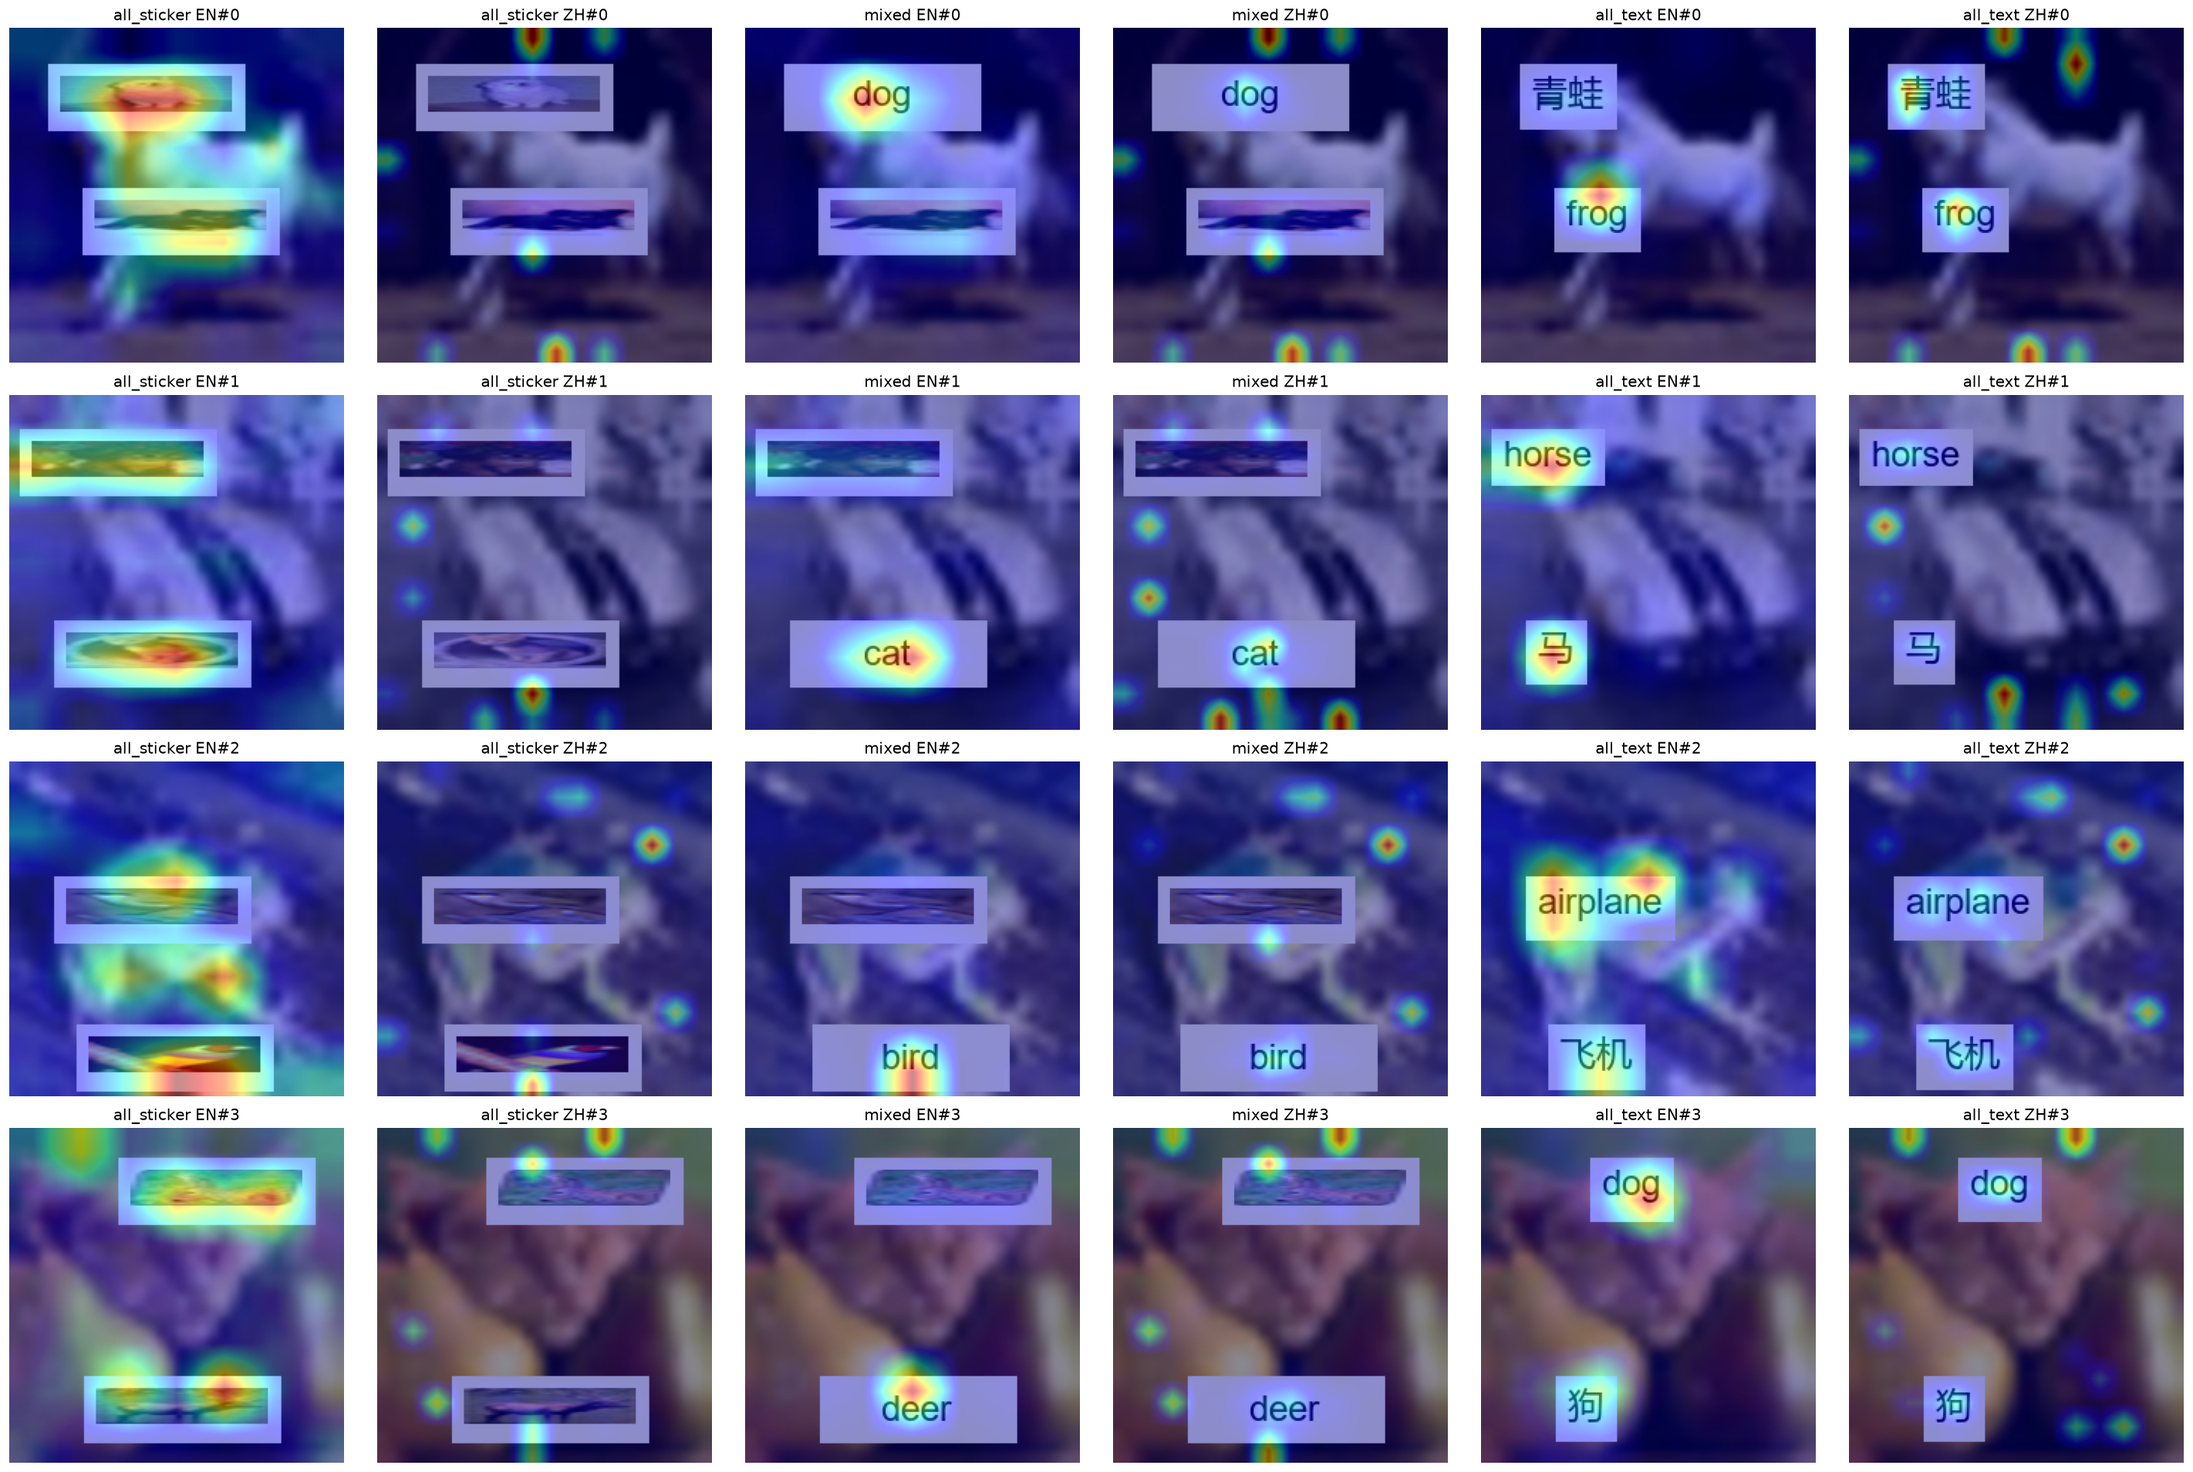
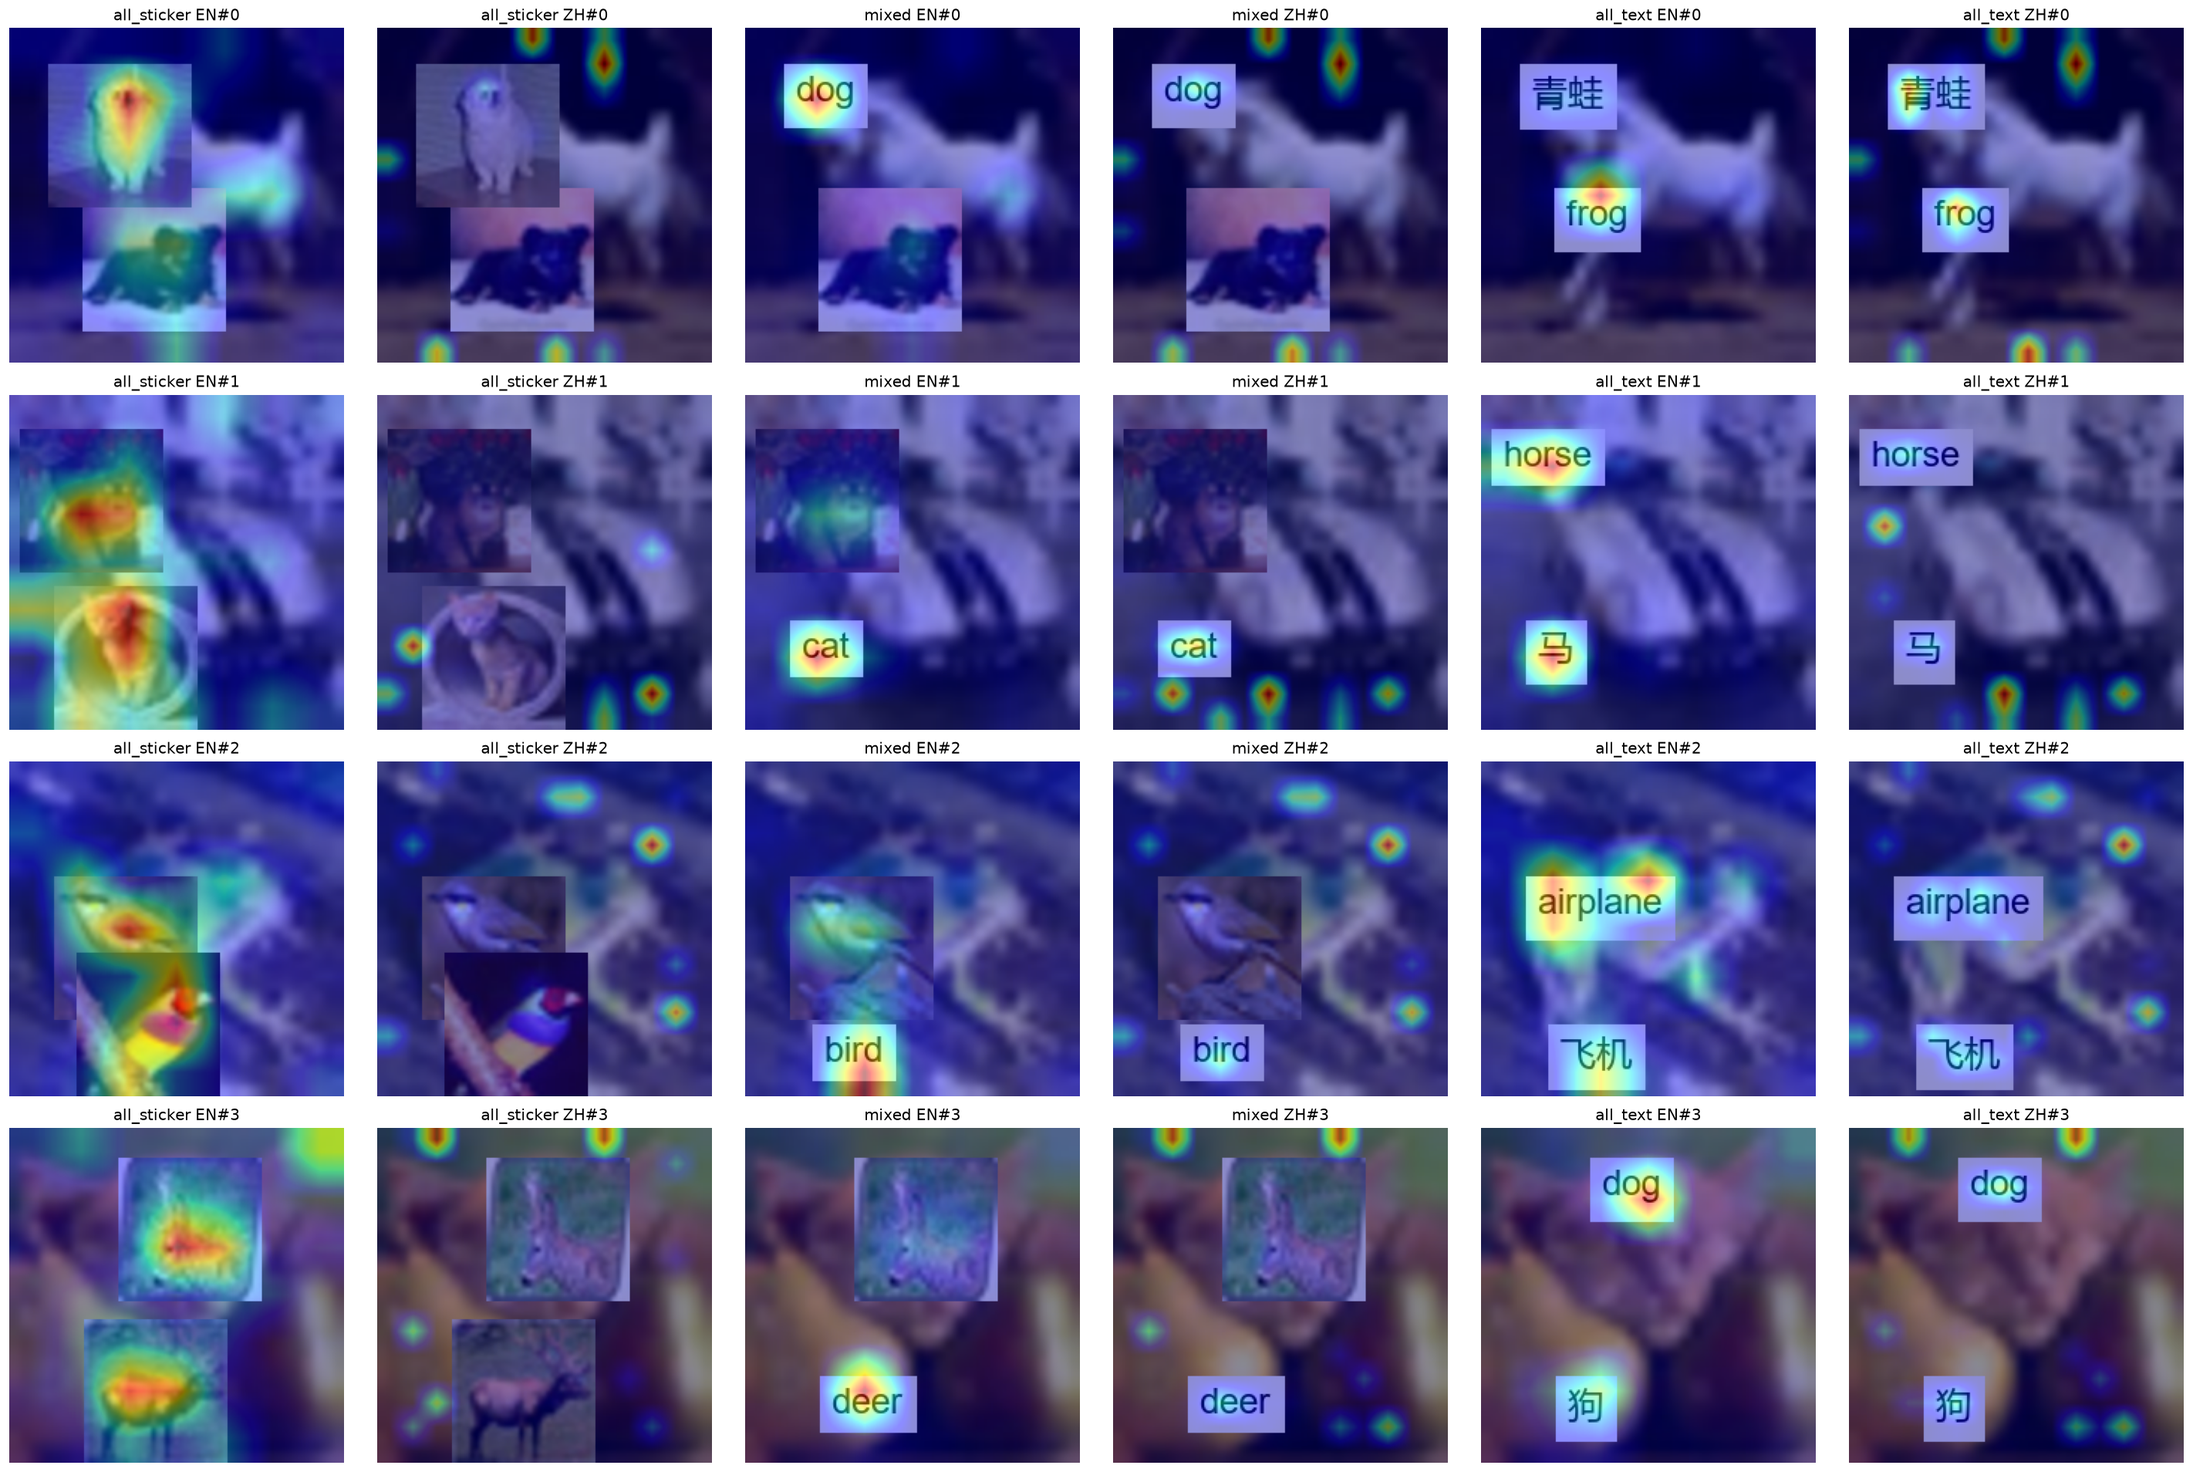
Refine animal sticker ablation documentation and results
- Updated `research_diary.md` to clarify the sensitivity of Attn-last to identifiable animal stickers versus generic anomalies, emphasizing the impact of proportional pasting without a white surround.
- Revised experimental setup details, including the new rendering method for animal stickers and the implications for accuracy metrics.
- Enhanced results in `summary_n1000.json` and `summary_n100.json` to reflect updated accuracy and localization performance metrics for the `all_sticker` and `mixed` modes.
- Added new figures to visualize the results, including `gallery_raw_and_attn.png` and `preview_raw_stickers.png`, to support findings on hijacking and localization effectiveness.
- Adjusted code in `run_ablation.py` and `attack_placement.py` to streamline the animal pasting process and improve clarity in the attack setup.

diff --git a/lib/notebooks/image_samples/attack_placement.py b/lib/notebooks/image_samples/attack_placement.py
@@ -191,31 +191,36 @@ DRAW_MODES = ("full", "white_only", "text_only")
 # CIFAR-10 animal class indices / names (no vehicles).
 ANIMAL_CLASS_IDS = (2, 3, 4, 5, 6, 7)
 ANIMAL_CLASS_NAMES = ("bird", "cat", "deer", "dog", "frog", "horse")
+# Uniform upscale of native 32×32 CIFAR animals (aspect preserved; no stretch).
+ANIMAL_STICKER_SIDE = 96
 
 
-def _inner_content_size(bw: int, bh: int, pad: int = PAD) -> tuple[int, int]:
-    iw = max(1, int(bw) - 2 * pad)
-    ih = max(1, int(bh) - pad - BH_EXTRA)
-    return iw, ih
+def resize_animal_proportional(
+    animal: Image.Image,
+    side: int = ANIMAL_STICKER_SIDE,
+) -> Image.Image:
+    """Upscale animal into a side-fit box keeping aspect ratio (no stretch)."""
+    a = animal.convert("RGB")
+    w, h = a.size
+    scale = float(side) / float(max(w, h))
+    nw = max(1, int(round(w * scale)))
+    nh = max(1, int(round(h * scale)))
+    return a.resize((nw, nh), Image.BICUBIC)
 
 
-def paste_animal_in_box(
+def paste_animal_at(
     img: Image.Image,
     animal: Image.Image,
     xy,
-    bw: int,
-    bh: int,
-    pad: int = PAD,
+    side: int = ANIMAL_STICKER_SIDE,
     display_size: int = DISPLAY_SIZE,
 ) -> tuple[int, int, int, int]:
-    """White box at xy with CIFAR animal pasted in the inner pad region. Returns rect."""
-    rx, ry = clamp_xy(xy, bw, bh, display_size)
-    draw = ImageDraw.Draw(img)
-    draw.rectangle([rx, ry, rx + bw, ry + bh], fill="white")
-    iw, ih = _inner_content_size(bw, bh, pad)
-    patch = animal.convert("RGB").resize((iw, ih), Image.BICUBIC)
-    img.paste(patch, (rx + pad, ry + pad))
-    return (rx, ry, rx + bw, ry + bh)
+    """Paste proportionally scaled animal at xy — no white surround. Returns GT rect."""
+    patch = resize_animal_proportional(animal, side=side)
+    pw, ph = patch.size
+    rx, ry = clamp_xy(xy, pw, ph, display_size)
+    img.paste(patch, (rx, ry))
+    return (rx, ry, rx + pw, ry + ph)
 
 
 def draw_text_box_at(
@@ -223,24 +228,17 @@ def draw_text_box_at(
     word: str,
     font,
     xy,
-    bw: int | None = None,
-    bh: int | None = None,
     pad: int = PAD,
     display_size: int = DISPLAY_SIZE,
 ) -> tuple[int, int, int, int]:
-    """White box + black text. If bw/bh given, use fixed size (for mixed geometry)."""
+    """Natural-size white box + black text (typography only)."""
     draw = ImageDraw.Draw(img)
     bb = draw.textbbox((0, 0), word, font=font)
-    if bw is None or bh is None:
-        bw = (bb[2] - bb[0]) + 2 * pad
-        bh = (bb[3] - bb[1]) + pad + BH_EXTRA
+    bw = (bb[2] - bb[0]) + 2 * pad
+    bh = (bb[3] - bb[1]) + pad + BH_EXTRA
     rx, ry = clamp_xy(xy, bw, bh, display_size)
     draw.rectangle([rx, ry, rx + bw, ry + bh], fill="white")
-    # Center text roughly in the fixed box when oversized.
-    tw, th = bb[2] - bb[0], bb[3] - bb[1]
-    tx = rx + max(pad, (bw - tw) // 2) - bb[0]
-    ty = ry + max(pad, (bh - th) // 2) - bb[1]
-    draw.text((tx, ty), word, fill="black", font=font)
+    draw.text((rx + pad - bb[0], ry + pad - bb[1]), word, fill="black", font=font)
     return (rx, ry, rx + bw, ry + bh)
 
 
@@ -250,14 +248,13 @@ def draw_dual_content_at(
     slot1,
     xy0,
     xy1,
-    bw: int,
-    bh: int,
+    animal_side: int = ANIMAL_STICKER_SIDE,
     already_224: bool = False,
     display_size: int = DISPLAY_SIZE,
     pad: int = PAD,
     return_boxes: bool = False,
 ):
-    """Draw two fixed-size white boxes with animal PIL and/or text content.
+    """Draw two slots: animal patches (no white pad) and/or typographic text boxes.
 
     Each slot is either:
       ("animal", pil_image)
@@ -272,13 +269,11 @@ def draw_dual_content_at(
         kind = slot[0]
         if kind == "animal":
             boxes.append(
-                paste_animal_in_box(img, slot[1], xy, bw, bh, pad=pad, display_size=display_size)
+                paste_animal_at(img, slot[1], xy, side=animal_side, display_size=display_size)
             )
         elif kind == "text":
             boxes.append(
-                draw_text_box_at(
-                    img, slot[1], slot[2], xy, bw=bw, bh=bh, pad=pad, display_size=display_size
-                )
+                draw_text_box_at(img, slot[1], slot[2], xy, pad=pad, display_size=display_size)
             )
         else:
             raise ValueError(f"Unknown slot kind {kind!r}")

diff --git a/lib/notebooks/animal_sticker_ablation/run_ablation.py b/lib/notebooks/animal_sticker_ablation/run_ablation.py
@@ -1,8 +1,8 @@
 """Animal-sticker vs text dual-box ablation.
 
 Modes:
-  all_sticker — both boxes: CIFAR-10 animal patches in white boxes
-  mixed       — slot0 animal sticker, slot1 EN class-name text (same wrong class)
+  all_sticker — both slots: proportional CIFAR-10 animal paste (no white pad)
+  mixed       — slot0 animal, slot1 EN class-name text (same wrong class)
   all_text    — production EN+ZH typographic dual box (protocol target)
 
 Measures Attn-last localization + undefended acc/ASR.
@@ -48,6 +48,7 @@ from _common.protocol import (  # noqa: E402
 )
 from attack_placement import (  # noqa: E402
     ANIMAL_CLASS_IDS,
+    ANIMAL_STICKER_SIDE,
     FONT_SIZE,
     PAD,
     _font_paths,
@@ -121,7 +122,7 @@ def sample_two_animals(pools, class_id: int, img_idx: int):
     return pool[i0].copy(), pool[i1].copy()
 
 
-def build_mode_attack(data, mode: str, fonts: dict, pools, animal_tgt, ref_bw, ref_bh):
+def build_mode_attack(data, mode: str, fonts: dict, pools, animal_tgt):
     out, all_rects, targets = [], [], []
     for i in range(data["n"]):
         xy0 = data["attack_pos"]["en"][i]
@@ -152,8 +153,7 @@ def build_mode_attack(data, mode: str, fonts: dict, pools, animal_tgt, ref_bw, r
                 ("animal", a1),
                 xy0,
                 xy1,
-                ref_bw,
-                ref_bh,
+                animal_side=ANIMAL_STICKER_SIDE,
                 already_224=True,
                 pad=PAD,
                 return_boxes=True,
@@ -169,8 +169,7 @@ def build_mode_attack(data, mode: str, fonts: dict, pools, animal_tgt, ref_bw, r
                 ("text", word, fonts["en"]),
                 xy0,
                 xy1,
-                ref_bw,
-                ref_bh,
+                animal_side=ANIMAL_STICKER_SIDE,
                 already_224=True,
                 pad=PAD,
                 return_boxes=True,
@@ -327,9 +326,6 @@ def run(n: int, save_gallery_flag: bool = True):
     fonts = _fonts()
     data = load_protocol_data(n=n)
     true = data["true"]
-    attack_pos = data["attack_pos"]
-    ref_bw = int(attack_pos.get("ref_bw", 131))
-    ref_bh = int(attack_pos.get("ref_bh", 44))
 
     print("Loading CIFAR-10 train animal pools…", flush=True)
     pools = load_animal_pools()
@@ -357,23 +353,22 @@ def run(n: int, save_gallery_flag: bool = True):
         "top_k": TOP_K,
         "partner": "zh",
         "modes_list": list(MODES),
-        "box_size": {"ref_bw": ref_bw, "ref_bh": ref_bh},
+        "animal_sticker_side": ANIMAL_STICKER_SIDE,
         "animal_classes": list(ANIMAL_CLASS_IDS),
         "clean": {"en_acc": clean_en_acc, "zh_acc": clean_zh_acc},
         "modes": {},
         "device": torch.cuda.get_device_name(0),
         "torch": torch.__version__,
         "note": (
-            "all_sticker: both boxes CIFAR animal; mixed: animal+EN text same wrong animal class; "
+            "all_sticker: both slots proportional CIFAR animal paste (no white pad); "
+            "mixed: animal + EN text same wrong animal class; "
             "all_text: EN+ZH typographic with protocol target."
         ),
     }
 
     for mode in MODES:
         print(f"\n--- mode={mode} ---", flush=True)
-        imgs, rects, tgt = build_mode_attack(
-            data, mode, fonts, pools, animal_tgt, ref_bw, ref_bh
-        )
+        imgs, rects, tgt = build_mode_attack(data, mode, fonts, pools, animal_tgt)
         mode_images[mode] = imgs
         gt_masks = [rects_to_mask(r) for r in rects]
 

diff --git a/docs/research_diary.md b/docs/research_diary.md
@@ -2833,41 +2833,55 @@ EN-only Attn-last (full): inbox 4.25, IoU 0.503, peak 89.3%, det@.1 100%. Inters
 
 ## 2026-07-25 — Animal-sticker vs text dual-box ablation
 
-**Question:** Is Attn-last / hijack sensitive to generic visual anomalies (CIFAR animal patches in white boxes), or mainly to letters? If anomaly-sensitive, the same defense could cover typographic and sticker attacks.
+**Question:** Is Attn-last / hijack sensitive to generic visual anomalies (CIFAR animal patches), or mainly to letters? If anomaly-sensitive, the same defense could cover typographic and sticker attacks.
 
-**Setup:** Frozen dual-box geometry (`ref_bw×ref_bh` = 131×44), CIFAR-10 n=1000, Attn-last thr≥0.95 / dilate 3 / top-2 cc_bbox. Stickers = random CIFAR-10 **train** animal instances (bird/cat/deer/dog/frog/horse), no external art.
-- `all_sticker` — both boxes: animal patch in white box (same wrong animal class, two instances)
+**Setup:** Frozen dual `attack_pos` anchors, CIFAR-10 n=1000, Attn-last thr≥0.95 / dilate 3 / top-2 cc_bbox. Stickers = random CIFAR-10 **train** animal instances (bird/cat/deer/dog/frog/horse), no external art.
+- Render: animals upscaled **32→96** with **aspect preserved** (square), pasted **without** a white surround. Text slots keep the usual white pad.
+- `all_sticker` — both slots: animal paste (same wrong animal class, two instances)
 - `mixed` — slot0 animal, slot1 EN class-name text (same wrong animal class)
 - `all_text` — EN+ZH typographic (protocol target)
 
-Code: [lib/notebooks/animal_sticker_ablation/run_ablation.py](../lib/notebooks/animal_sticker_ablation/run_ablation.py). Results: [summary_n1000.json](../lib/notebooks/animal_sticker_ablation/results/summary_n1000.json). Gallery: [figures/gallery_attn_overlay.png](../lib/notebooks/animal_sticker_ablation/figures/gallery_attn_overlay.png).
+Code: [lib/notebooks/animal_sticker_ablation/run_ablation.py](../lib/notebooks/animal_sticker_ablation/run_ablation.py). Results: [summary_n1000.json](../lib/notebooks/animal_sticker_ablation/results/summary_n1000.json).
+Figures: [gallery_raw_and_attn.png](../lib/notebooks/animal_sticker_ablation/figures/gallery_raw_and_attn.png) (raw | EN Attn-last | ZH Attn-last per mode), [gallery_attn_overlay.png](../lib/notebooks/animal_sticker_ablation/figures/gallery_attn_overlay.png), [preview_raw_stickers.png](../lib/notebooks/animal_sticker_ablation/figures/preview_raw_stickers.png).
 
 Clean floors: EN **85.9%**, ZH **91.4%**.
+
+*(Earlier same-day run stretched animals into the typographic 131×44 white boxes — unreadable and artificially weak ASR. Superseded by this proportional paste.)*
+
+### Heatmaps (Attn-last)
+
+Qualitative from [gallery_raw_and_attn.png](../lib/notebooks/animal_sticker_ablation/figures/gallery_raw_and_attn.png) (4 hosts × 3 modes × raw/EN/ZH):
+
+- **`all_sticker`:** EN heat peaks on the square animal patches (readable 96×96 CIFAR animals, no white pad). ZH heat stays diffuse / on the host object — bilingual intersection fails even when EN locks on.
+- **`mixed`:** EN concentrates on the **text** box more than the animal; ZH also pulls toward the glyph region when present. One letter sticker is enough to drive the spiky bilingual pattern.
+- **`all_text`:** Classic dual-script hijack — both EN and ZH peak on the white text stickers; tightest EN∩ZH masks.
+
+Matches the tables: animal patches hijack classification and EN attention, but **ZH co-localization needs letters**.
 
 ### Undefended classification (hijack)
 
 | Mode | EN acc | EN ASR | ZH acc | ZH ASR |
 |------|-------:|-------:|-------:|-------:|
-| all_sticker | **53.6%** | 12.9% | **44.8%** | 20.3% |
-| mixed | 1.9% | **98.1%** | 8.3% | **91.4%** |
+| all_sticker | 11.0% | **76.6%** | 6.5% | **87.7%** |
+| mixed | 1.3% | **98.7%** | 2.2% | **97.6%** |
 | all_text | 4.5% | **95.3%** | 6.4% | **93.6%** |
 
-Animal-only stickers barely hijack (ASR ~13–20%). One EN text box restores near-full ASR (`mixed` ≈ `all_text`). Hijack is **letter-driven**, not animal-anomaly-driven.
+With readable square animals, `all_sticker` **does** hijack strongly (EN ASR 76.6%, ZH 87.7%). Adding one EN text box (`mixed`) pushes ASR to near-ceiling, matching / exceeding `all_text`.
 
 ### Localization (EN∩ZH cc_bbox vs GT union)
 
 | Mode | inbox | IoU | peak-in-box | det@IoU≥0.1 | det@IoU≥0.3 |
 |------|------:|----:|------------:|------------:|------------:|
-| all_sticker | 2.03 | 0.143 | 65.2% | 59.1% | 9.1% |
-| mixed | 2.87 | 0.344 | 97.3% | **100%** | 72.2% |
+| all_sticker | 1.48 | 0.117 | 34.4% | 51.1% | 5.8% |
+| mixed | 2.73 | 0.310 | 98.9% | **99.8%** | 54.1% |
 | all_text | 5.56 | **0.691** | **98.3%** | **100%** | **99.0%** |
 
-EN-only on `all_sticker` is stronger than intersection (det@.1 **96.5%**, IoU 0.308) but ZH barely locks onto animal patches (det@.1 12%), so EN∩ZH collapses — unlike typographic dual-script where both encoders agree.
+EN-only on `all_sticker`: inbox 1.82, IoU 0.283, peak 96.2%, det@.1 **99.3%** — EN attends the animal patches, but ZH does not (det@.1 1.1%), so EN∩ZH stays weak. Glyph dual-script (`all_text`) still wins bilingual localization.
 
 ### Verdict
 
-1. **Sensitive to letters, not CIFAR animal anomalies.** `all_sticker` ASR is low; `mixed` matches `all_text` once one text box appears.
-2. **Do not claim** that Attn∩ occlusion automatically defends animal sticker patches: bilingual intersection localization is weak without glyphs.
-3. EN alone can somewhat notice animal boxes, but the production EN∩L defense is tuned for **text** stickers.
+1. **Readable animal stickers are a real hijack** (unlike the aborted stretched-in-white-box version). Anomaly content matters when the patch is identifiable.
+2. **EN∩ZH localization remains text-favoring:** animal-only intersection is mediocre; one text box restores high det@.1. Production bilingual occlusion is still best justified for typographic stickers.
+3. EN-alone attention *can* lock onto animal patches (det@.1 ~99%), so a monolingual or EN-gated repair might partially transfer — not shown here.
 
-**Status:** Done.
+**Status:** Done (proportional paste, no white animal pad).
